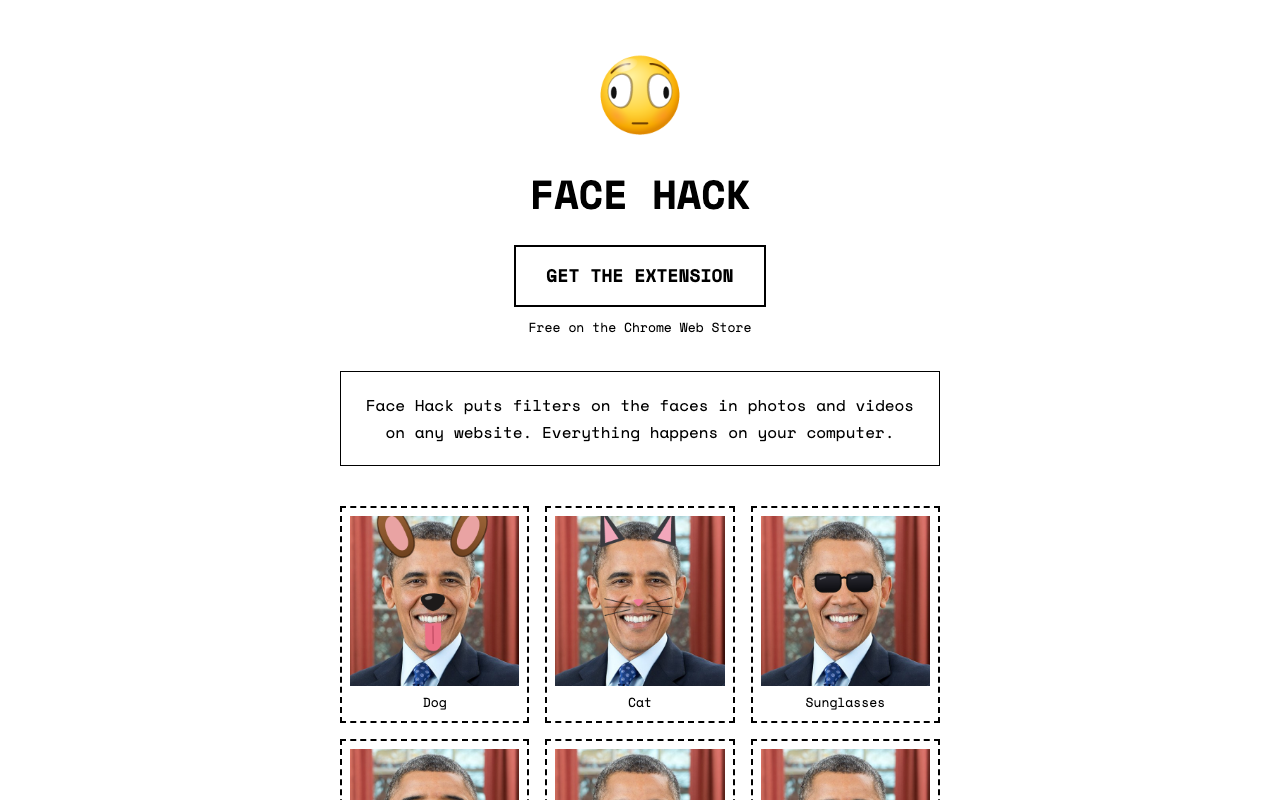
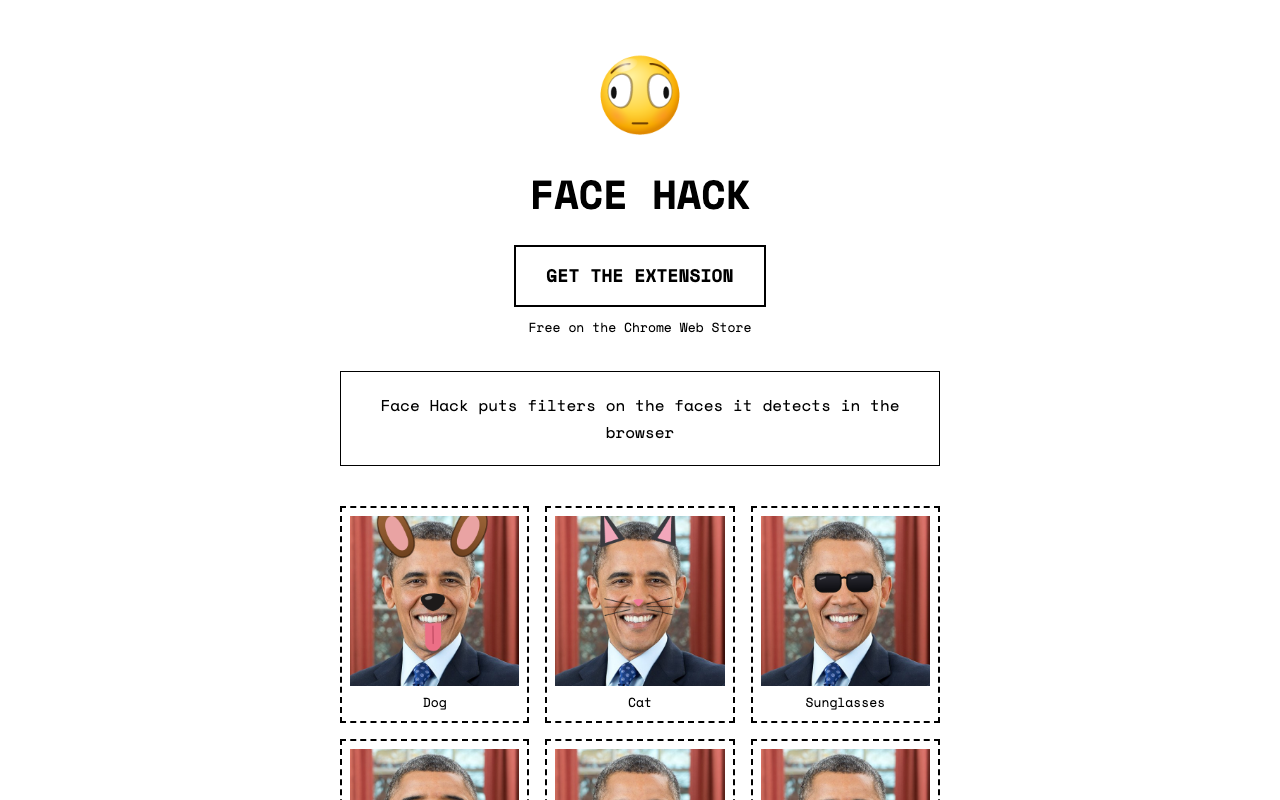
Site: credit line linking to gracejli.com; sync template with GitHub copy edits

Changed region(s): [[0.2812, 0.5, 0.7188, 0.5625]]

diff --git a/docs/index.html b/docs/index.html
@@ -5,7 +5,7 @@
 <meta name="viewport" content="width=device-width, initial-scale=1">
 <title>Face Hack</title>
 <link rel="icon" href="icon128.png">
-<link rel="stylesheet" href="style.css?v=627d1c96">
+<link rel="stylesheet" href="style.css?v=1472301a">
 </head>
 <body>
 <main>
@@ -41,6 +41,7 @@
 <p class="arena"><a class="button" href="https://www.are.na/gli/screenshots-with-facehack">Public Are.na Face Hack screenshot channel</a></p>
 
 <footer>
+<p class="credit">face hack is a project by <a href="https://gracejli.com">grace li</a></p>
 <a href="https://chromewebstore.google.com/detail/face-hack/cfdhakfgjfcnkfbfhicgbdingnbppdho">Chrome Web Store</a> · <a href="https://www.are.na/gli/screenshots-with-facehack">Are.na</a> · <a href="privacy.html">Privacy policy</a> · <a href="https://github.com/gracejli/face-filters">Source on GitHub</a>
 </footer>
 </main>

diff --git a/docs/privacy.html b/docs/privacy.html
@@ -5,7 +5,7 @@
 <meta name="viewport" content="width=device-width, initial-scale=1">
 <title>Face Hack privacy policy</title>
 <link rel="icon" href="icon128.png">
-<link rel="stylesheet" href="style.css?v=627d1c96">
+<link rel="stylesheet" href="style.css?v=1472301a">
 </head>
 <body>
 <main>

diff --git a/docs/style.css b/docs/style.css
@@ -84,3 +84,4 @@ footer {
   margin-top: 56px;
   font-size: 13px;
 }
+.credit { font-size: 16px; margin: 0 0 12px; }
